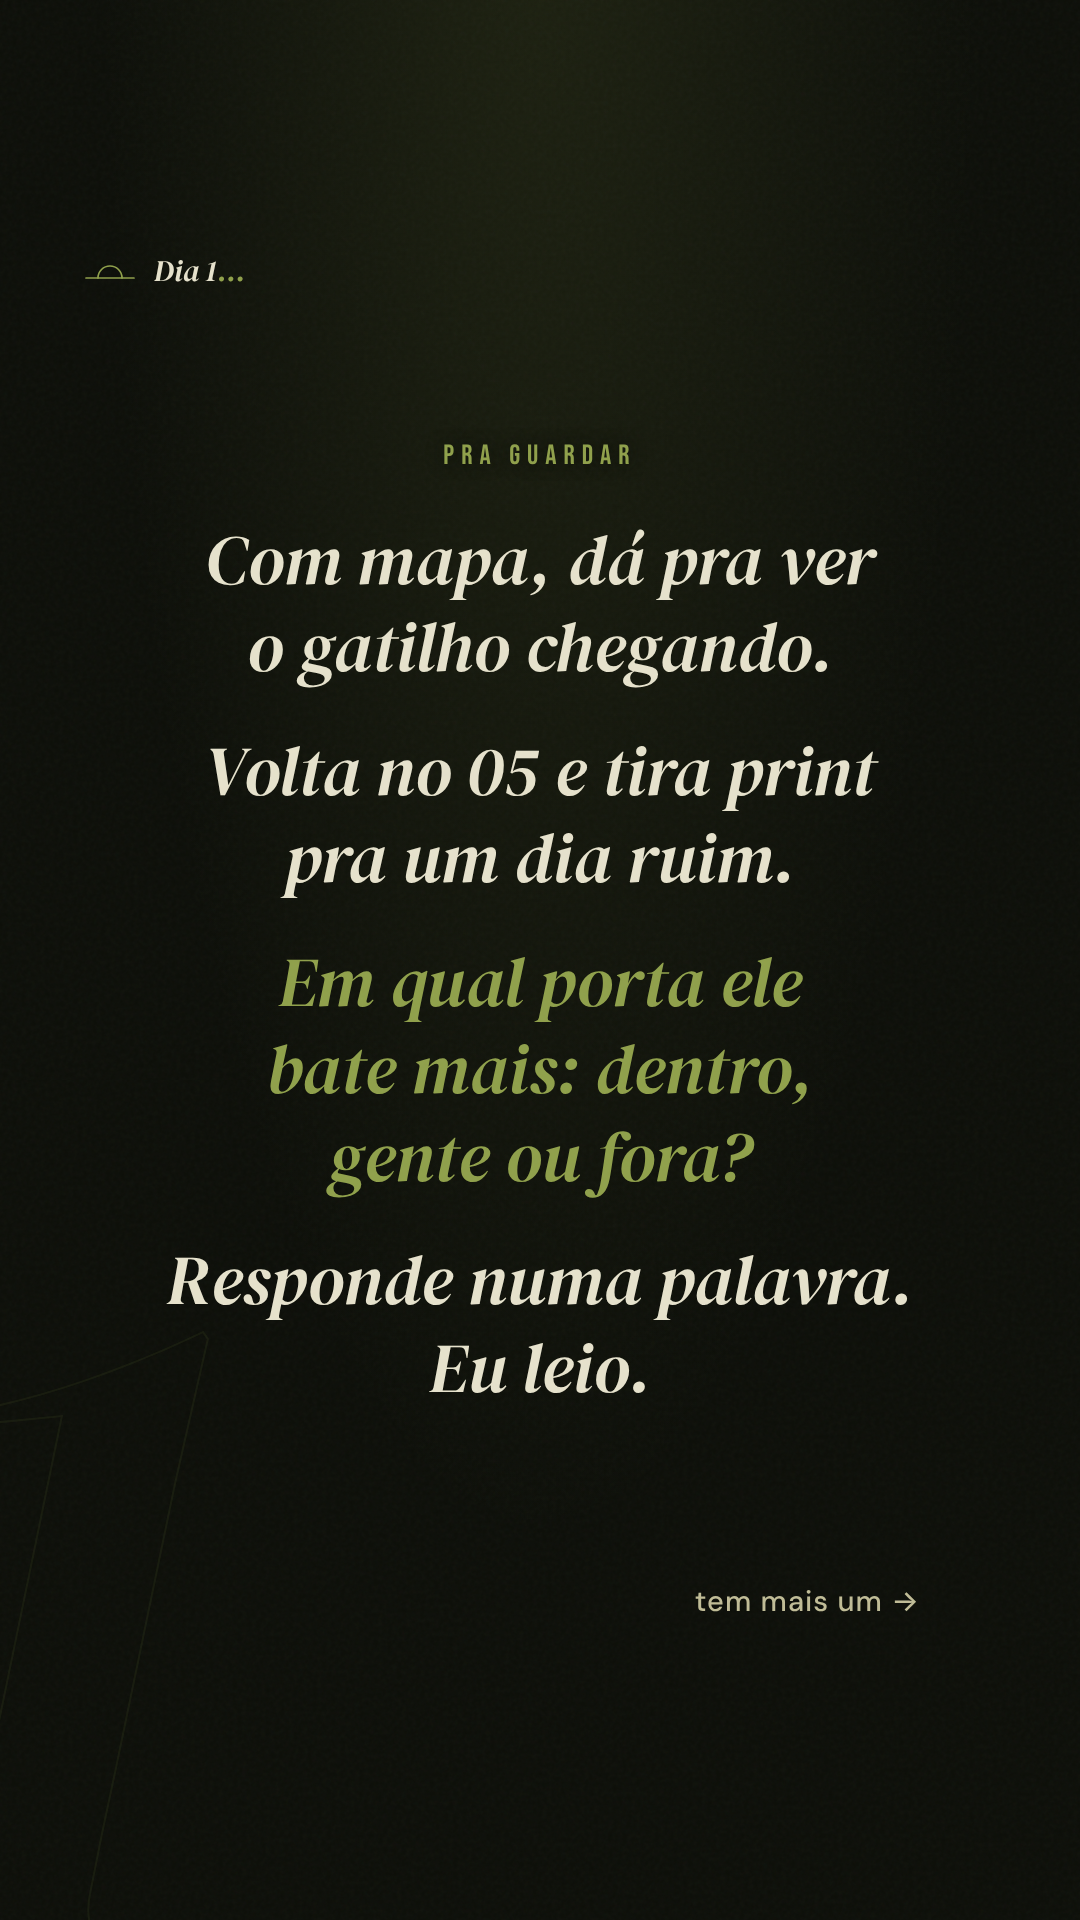
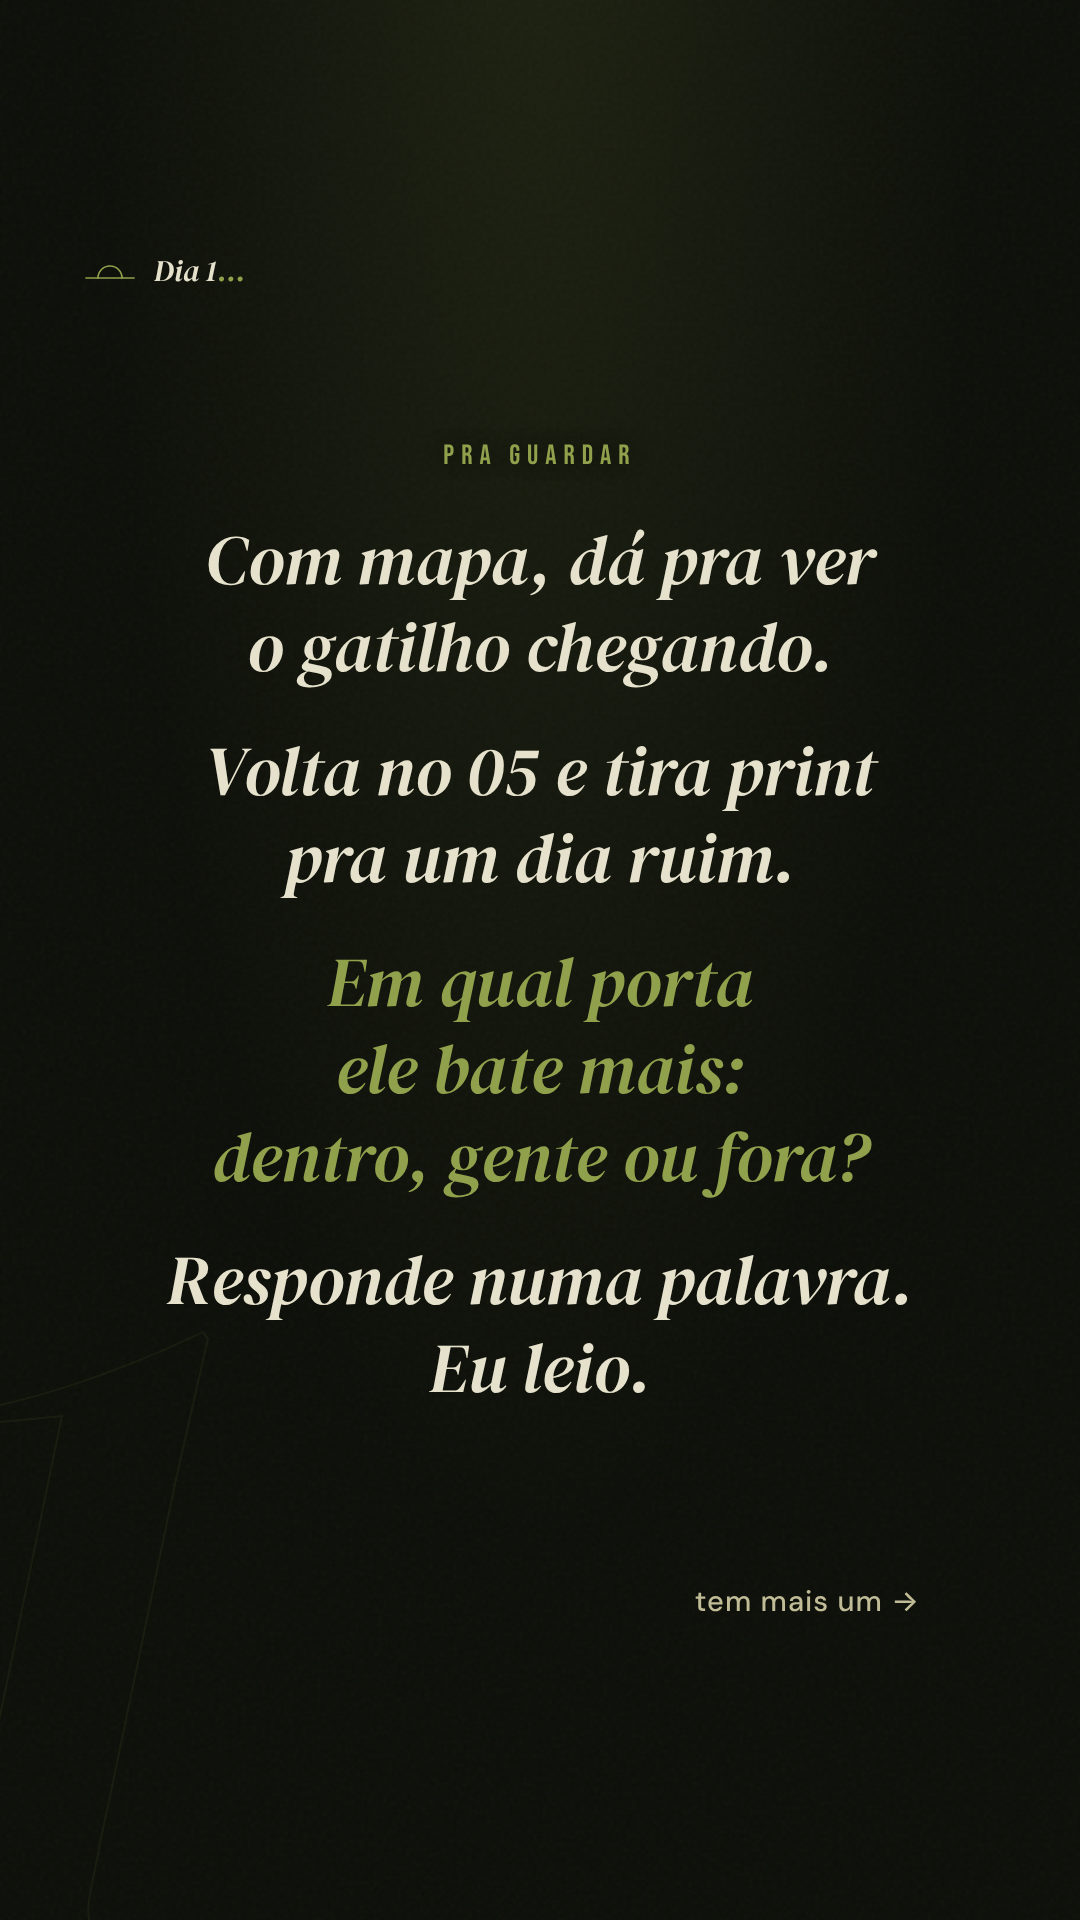
Carrossel 6 9:16: second QA round
Keep the three answers on one line on slide 9, break the slide 3 note
at the comma, put the giant 1 behind "porta." on the cover, give the
signature its own row and stop the offer card at the TikTok action
column on slide 10, and lift Léo's photo 30px off the text.

Claude-Session: https://claude.ai/code/session_01MtrnZtMMhZHKAaUpjjmgJu

Changed region(s): [[0.1833, 0.5, 0.7944, 0.625]]

diff --git a/carrossel/carrossel 6 gatilho dia1/fonte/carousel-9x16.css b/carrossel/carrossel 6 gatilho dia1/fonte/carousel-9x16.css
@@ -19,15 +19,18 @@
 .cover .camada { justify-content: flex-end; padding-bottom: calc(var(--safe-bottom) + 150px); }
 .cover h1.serif { font-size: 88px; }
 /* giant 1 follows the text down, as in 4:5 (stem behind "porta.") */
-.cover .um { top: 375px !important; }
+.cover .um { top: 375px !important; right: -110px !important; }
 
 /* Léo: the photo is 9:16 already, shown whole and lifted so the face sits above the text */
-.leo .foto { top: -350px; height: 1920px; }
+.leo .foto { top: -380px; height: 1920px; }
 .leo .fusao { height: 1920px; background: linear-gradient(to left, rgba(12,14,8,1) 0%, rgba(12,14,8,1) 34%, rgba(12,14,8,0) 54%), linear-gradient(to top, var(--black) 0%, var(--black) 38%, rgba(12,14,8,0.9) 45%, var(--fade-ground) 50%, rgba(12,14,8,0) 60%); }
 .leo .scrim-top { height: 380px; background: linear-gradient(to bottom, rgba(12,14,8,.9) 0%, rgba(12,14,8,.6) 45%, transparent 100%); }
 .leo .marca.tl { left: auto; right: var(--m); }
-.leo .camada { padding-bottom: calc(var(--safe-bottom) + 60px); }
-.leo .sig { bottom: calc(var(--safe-bottom) + 50px); right: 170px; }
+.leo .camada { padding-bottom: calc(var(--safe-bottom) + 110px); }
+/* offer card stops at the TikTok action column */
+.leo .offer { max-width: 850px; }
+/* signature on its own row under the CVV line, right edge aligned with the card */
+.leo .sig { bottom: calc(var(--safe-bottom) + 4px); right: 170px; }
 .leo .crisis { margin-top: 30px; }
 .leo h2.serif { font-size: 62px; }
 

diff --git a/carrossel/carrossel 6 gatilho dia1/fonte/slides-9x16.js b/carrossel/carrossel 6 gatilho dia1/fonte/slides-9x16.js
@@ -5,6 +5,8 @@
   slide('capa').swipe = 'continua →';
   slide('salva-e-comenta').lines[1].text = 'Volta no 05 e tira print pra um dia ruim.';
   slide('salva-e-comenta').lines[3].text = 'Responde numa palavra.<br>Eu leio.';
+  slide('salva-e-comenta').lines[2].text = 'Em qual porta<br>ele bate mais:<br>dentro, gente ou fora?';
+  slide('sem-culpa').note = 'Quando bater,<br>troca a culpa por atenção.';
   Object.assign(slide('leo'), {
     ctaVerb: 'Manda',
     hint: 'no direct<br>que eu te mando o link',
